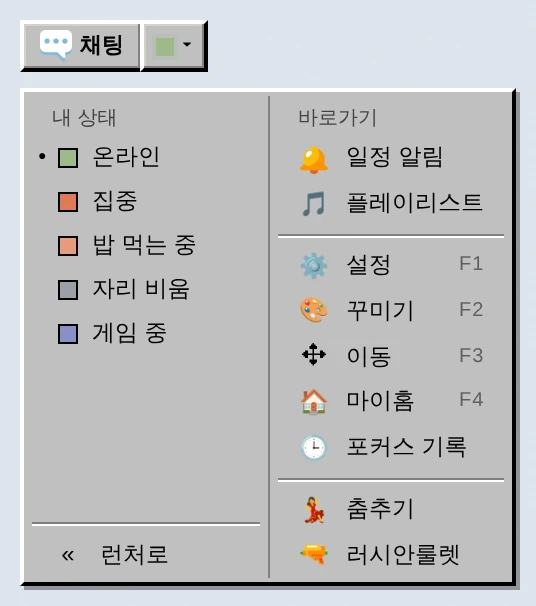
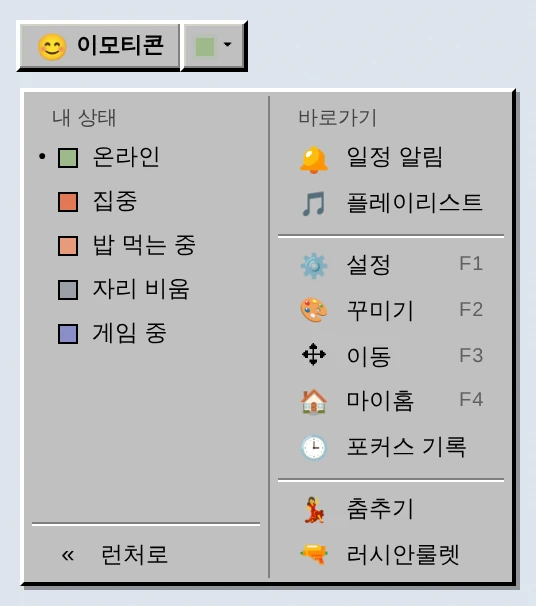
docs(help): 도움말 검토 반영 — 남은 옛 메뉴 경로 · ▾ 메뉴 사진 · 같은 사진 한 벌 (#540)
- privacy.html: 대화 지우기 자리 «설정 › 시스템» → «설정 › 정보»
- 3-1 · 7.html: 🎵 · 🔔 는 «미니 메뉴 ▾ › 🎵 플레이리스트 · 🔔 일정 알림»
- 4-2.html · link.html: «설정 › 포커싱어플» → «설정 › 포커싱»
- 6.html: 대화창 버튼 자리(이름 아래 미니 메뉴의 💬 채팅)
- 1-2 · 3 · 4.html: «● ▾» → «▾»(상태 표시는 작은 네모) · 4편 디스플레이 목록 순서를 창과 같게
- img/3/02.webp: ▾ 메뉴 사진을 워킹룸(😊)으로 다시 찍음(투게더룸엔 💃 · 🔫 가 없다) · img/1-2/01.webp 걷고 1-2편도 4/03 을 씀(같은 사진)

Changed region(s): [[0.0299, 0.0297, 0.4776, 0.1188]]

diff --git a/firebase/hosting/help/4.html b/firebase/hosting/help/4.html
@@ -17,7 +17,7 @@
 <h1>4. 투게더워킹 드롭다운 메뉴 안내</h1>
 
 <h2>드롭다운 메뉴</h2>
-<p>게임을 실행한 뒤 미니 메뉴 오른쪽의 <b>● ▾ 버튼</b>을 누르면 드롭다운 메뉴가 열려요. 오른쪽 <b>바로가기</b> 칸에 프로그램의 자세한 메뉴가 모여 있어요.</p>
+<p>게임을 실행한 뒤 미니 메뉴 오른쪽의 <b>▾ 버튼</b>을 누르면 드롭다운 메뉴가 열려요. 오른쪽 <b>바로가기</b> 칸에 프로그램의 자세한 메뉴가 모여 있어요.</p>
 <figure class="narrow"><img src="/img/3/02.webp" loading="lazy" alt="드롭다운 메뉴"><figcaption>바로가기 — 일정 알림 · 플레이리스트 · 설정 F1 · 꾸미기 F2 · 이동 F3 · 마이홈 F4 · 포커스 기록 · 춤추기 · 러시안룰렛</figcaption></figure>
 <p>F1 · F2 · F3 · F4는 단축키예요. 메뉴를 열지 않고 키보드로 바로 열 수 있어요. (맥에서는 ⌘1 ~ ⌘4)</p>
 <p>왼쪽 <b>내 상태</b> 칸은 <a class="xref" href="/3">🔗 3. 실행 및 설정</a>에서 설명했어요.</p>
@@ -36,9 +36,9 @@
   <li><b>저해상도(도트) 렌더</b> — 켜면 캐릭터가 도트처럼 저해상도로 보여요.</li>
   <li><b>이모지 반응</b> — 캐릭터를 클릭하거나 끌었을 때 나오는 💤♥💫 반응이에요.</li>
   <li><b>머리 위 레벨/이름 표시</b> — 이름 · 레벨 · 경험치 바를 켜고 끌 수 있어요.</li>
+  <li><b>프로그램 크기</b> — 캐릭터와 창을 <b>함께</b> 키우거나 줄여요. 키보드 <b>Ctrl + = / Ctrl + -</b>, 처음 크기는 <b>Ctrl + 0</b>.</li>
   <li><b>레벨/이름 크기</b> — <b>− · +</b>로 머리 위 이름 글자 크기를 조절하고, <b>↺</b>로 처음 크기(100%)로 돌아가요.</li>
   <li><b>창 위치 초기화</b> — 창이 화면 밖으로 나가 안 보일 때 [되돌리기]로 처음 자리로 돌려놔요.</li>
-  <li><b>프로그램 크기</b> — 캐릭터와 창을 <b>함께</b> 키우거나 줄여요. 키보드 <b>Ctrl + = / Ctrl + -</b>, 처음 크기는 <b>Ctrl + 0</b>.</li>
 </ul>
 
 <h3>▶ 캐릭터</h3>

diff --git a/firebase/hosting/help/1-2.html b/firebase/hosting/help/1-2.html
@@ -18,11 +18,11 @@
 
 <p>회사에서도 쓸 수 있도록 눈에 띄는 기능을 조용하게 바꾸는 모드예요.</p>
 <p><span class="path">⚙ 설정 › 디스플레이 › 회사원 모드</span> 스위치를 켜면 바로 적용돼요. 메인 화면의 ⚙ 설정과 게임 화면의 설정(F1)은 같은 창이에요.</p>
-<figure class="narrow"><img src="/img/1-2/01.webp" loading="lazy" alt="디스플레이 탭 회사원 모드"><figcaption>설정 › 디스플레이 › 회사원 모드</figcaption></figure>
+<figure class="narrow"><img src="/img/4/03.webp" loading="lazy" alt="디스플레이 탭 회사원 모드"><figcaption>설정 › 디스플레이 › 회사원 모드</figcaption></figure>
 
 <h2>화면 한 번에 숨기기</h2>
-<p>캐릭터 아래 미니 메뉴의 <b>● ▾ 버튼</b>을 <b>우클릭</b>하면 캐릭터와 열려 있던 창이 모두 숨겨지고 ▾ 버튼만 남아요. 다시 우클릭하면 그대로 돌아와요.</p>
-<figure class="narrow"><img src="/img/1-2/02.webp" loading="lazy" alt="미니 메뉴의 ▾ 버튼"><figcaption>미니 메뉴 오른쪽의 ● ▾ 버튼 — 우클릭으로 숨기기 / 다시 보이기</figcaption></figure>
+<p>캐릭터 아래 미니 메뉴의 <b>▾ 버튼</b>을 <b>우클릭</b>하면 캐릭터와 열려 있던 창이 모두 숨겨지고 ▾ 버튼만 남아요. 다시 우클릭하면 그대로 돌아와요.</p>
+<figure class="narrow"><img src="/img/1-2/02.webp" loading="lazy" alt="미니 메뉴의 ▾ 버튼"><figcaption>미니 메뉴 오른쪽의 ▾ 버튼 — 우클릭으로 숨기기 / 다시 보이기</figcaption></figure>
 <p>숨겨도 하던 일(열어 둔 창의 내용)은 그대로 남아 있어요. 회사원 모드를 끄면 숨김도 함께 풀려요.</p>
 
 <h2>말풍선 대신 작은 글씨</h2>

diff --git a/firebase/hosting/help/3.html b/firebase/hosting/help/3.html
@@ -24,9 +24,9 @@
 
 <h2>미니 메뉴</h2>
 <p>캐릭터 이름 아래의 작은 버튼 줄이 미니 메뉴예요. 키보드 <b>[Tab]</b>으로 접었다 펼 수 있어요.</p>
-<figure class="narrow"><img src="/img/3/01.webp" loading="lazy" alt="미니 메뉴"><figcaption>미니 메뉴 — 왼쪽 💬 채팅(투게더룸) · 오른쪽 ● ▾ 메뉴</figcaption></figure>
+<figure class="narrow"><img src="/img/3/01.webp" loading="lazy" alt="미니 메뉴"><figcaption>미니 메뉴 — 왼쪽 💬 채팅(투게더룸) · 오른쪽 ▾ 메뉴</figcaption></figure>
 <p>왼쪽 버튼은 방에 따라 달라요. <b>투게더룸</b>에서는 💬 채팅, <b>워킹룸</b>에서는 😊 이모티콘이 보이고, 혼자 쓸 때는 ▾ 버튼만 있어요.</p>
-<p>오른쪽 <b>● ▾ 버튼</b>을 누르면 두 칸짜리 메뉴가 열려요. 왼쪽 칸은 <b>내 상태</b>, 오른쪽 칸은 <b>바로가기</b>예요. ● 색은 지금 상태 색이고, 안 읽은 일정이 있으면 ▾ 에 빨간 점이 붙어요.</p>
+<p>오른쪽 <b>▾ 버튼</b>을 누르면 두 칸짜리 메뉴가 열려요. 왼쪽 칸은 <b>내 상태</b>, 오른쪽 칸은 <b>바로가기</b>예요. ▾ 앞 작은 네모 색은 지금 상태 색이고, 안 읽은 일정이 있으면 ▾ 에 빨간 점이 붙어요.</p>
 <figure class="narrow"><img src="/img/3/02.webp" loading="lazy" alt="▾ 메뉴"><figcaption>▾ 메뉴 — 내 상태 | 바로가기</figcaption></figure>
 <p>바로가기 칸의 자세한 설명은 다음 포스트에서 할게요. <a class="xref" href="/4">🔗 4. 드롭다운 메뉴</a></p>
 

diff --git a/firebase/hosting/help/privacy.html b/firebase/hosting/help/privacy.html
@@ -155,7 +155,7 @@
       <ul>
         <li>화면 위치 · 음량 · 표시 설정 등 앱 설정과 캐시</li>
         <li>키보드 · 마우스 · 게임패드 입력 여부와 사용 중인 프로그램 이름 — 캐릭터 반응과 집중 앱 감지에만 쓰며, <b>입력 내용과 프로그램 이름은 서버로 보내지 않습니다</b>.</li>
-        <li>워킹룸 · 시크릿룸 대화 기록 — 서버 보관 기간(3일)이 지난 대화도 이 PC 에서 이어 볼 수 있게 채널마다 최근 300줄까지 저장합니다(넘으면 오래된 대화부터 지웁니다). 방에서 직접 나가거나, 방장이 기록을 지우거나, 설정 › 시스템 «이 PC 에 저장된 대화 지우기» 를 누르면 삭제됩니다. 투게더룸 대화는 저장하지 않습니다.</li>
+        <li>워킹룸 · 시크릿룸 대화 기록 — 서버 보관 기간(3일)이 지난 대화도 이 PC 에서 이어 볼 수 있게 채널마다 최근 300줄까지 저장합니다(넘으면 오래된 대화부터 지웁니다). 방에서 직접 나가거나, 방장이 기록을 지우거나, 설정 › 정보 «이 PC 에 저장된 대화 지우기» 를 누르면 삭제됩니다. 투게더룸 대화는 저장하지 않습니다.</li>
         <li>스티커사진 · 채팅 내보내기 · 진단 기록 파일 — 이용자가 직접 저장하거나 전달할 때만 사용됩니다.</li>
       </ul>
 

diff --git a/firebase/hosting/help/4-2.html b/firebase/hosting/help/4-2.html
@@ -32,7 +32,7 @@
 <h2>▶ 🎯 집중</h2>
 <p><i>하루 한 시간만이라도 꼭 일하자!</i></p>
 <figure class="narrow"><img src="/img/4-2/02.webp" loading="lazy" alt="집중 설정"><figcaption>잴 앱 하나 · 하루 목표 시간</figcaption></figure>
-<p>포커스 기록과는 따로, 달성표에 정한 <b>앱 하나</b>의 오늘 사용 시간을 재요. 앱은 <b>[고르기]</b>를 눌러 설정 › 포커싱어플에 등록한 앱 중에서 골라요.</p>
+<p>포커스 기록과는 따로, 달성표에 정한 <b>앱 하나</b>의 오늘 사용 시간을 재요. 앱은 <b>[고르기]</b>를 눌러 설정 › 포커싱에 등록한 앱 중에서 골라요.</p>
 <p>목표는 <b>1시간 단위</b>로 하루 1~12시간까지 정할 수 있고, <b>다음 날 오전 6시 전까지</b> 목표 시간을 채우면 달성이에요. 프로그램이 켜져 있는 동안만 재요.</p>
 
 <h2>▶ 🔁 반복</h2>

diff --git a/firebase/hosting/help/6.html b/firebase/hosting/help/6.html
@@ -40,7 +40,7 @@
 <h2>▶ 💬 투게더룸</h2>
 <p>채팅을 쓸 수 있는 방이에요. <b>만들기는 프리미엄 라이선스 보유자만</b> 할 수 있지만, <b>참여는 누구나</b> 할 수 있어요. 최대 <b>10명</b>까지 들어올 수 있어요.</p>
 <figure class="narrow"><img src="/img/6/11.webp" loading="lazy" alt=""></figure>
-<p>캐릭터 옆 <b>[💬]</b> 버튼이나 <b>F5</b>로 대화창을 열고 닫아요.</p>
+<p>캐릭터 이름 아래 미니 메뉴의 <b>[💬 채팅]</b> 버튼이나 <b>F5</b>로 대화창을 열고 닫아요.</p>
 
 <figure class="narrow"><img src="/img/6/02.webp" loading="lazy" alt="대화창"><figcaption>대화창 — 메뉴 · 채널 탭 · 멤버 줄 · 여기까지 읽음 (이름 · 대화는 예시)</figcaption></figure>
 <ul>

diff --git a/firebase/hosting/help/3-1.html b/firebase/hosting/help/3-1.html
@@ -17,7 +17,7 @@
 <h1>3-1. 플레이리스트</h1>
 
 <h2>플레이리스트</h2>
-<p>미니 메뉴의 <b>🎵 버튼</b>을 누르면 플레이리스트 창이 열려요. 유튜브 링크를 담아 작업하면서 들을 수 있어요.</p>
+<p>미니 메뉴 <b>▾ › 🎵 플레이리스트</b>를 누르면 플레이리스트 창이 열려요. 유튜브 링크를 담아 작업하면서 들을 수 있어요.</p>
 <p>프리셋은 <b>3개</b>, 프리셋마다 <b>20곡</b>까지 담을 수 있고, <b>🌊 파도타기</b>로 다른 사람의 플레이리스트도 들을 수 있어요.</p>
 
 <h3>▶ 소개글 · 마이홈 공개</h3>

diff --git a/firebase/hosting/help/7.html b/firebase/hosting/help/7.html
@@ -105,7 +105,7 @@
   <li>클릭하면 <b>♥</b>가 날아다니고, 우클릭하면 수정 · 삭제, 끌면 순서를 바꿔요.</li>
   <li>공개 · 친구 태그 · <b>알림 받기</b>(50일, 그다음 100일 · 200일 · 300일…)를 쓸 수 있어요.</li>
 </ul>
-<p>오늘 알림은 미니 메뉴의 🔔 다가오는 일정에서 모아 봐요. <a class="xref" href="/3">🔗 3. 실행 및 설정</a></p>
+<p>오늘 알림은 미니 메뉴 ▾ › 🔔 일정 알림에서 모아 봐요. <a class="xref" href="/3">🔗 3. 실행 및 설정</a></p>
 
 <h2>알림함</h2>
 

diff --git a/firebase/hosting/help/link.html b/firebase/hosting/help/link.html
@@ -99,7 +99,7 @@
       <div class="msg" id="msg" aria-live="polite"></div>
     </div>
   </div>
-  <div class="bad hide" id="bad">연결 정보가 없어요. PC 프로그램 › 설정 › 포커싱어플 › <b>QR로 연결하기</b> 에서 QR 을 다시 찍어 주세요.</div>
+  <div class="bad hide" id="bad">연결 정보가 없어요. PC 프로그램 › 설정 › 포커싱 › <b>QR로 연결하기</b> 에서 QR 을 다시 찍어 주세요.</div>
 </div>
 <script>
 (function(){
